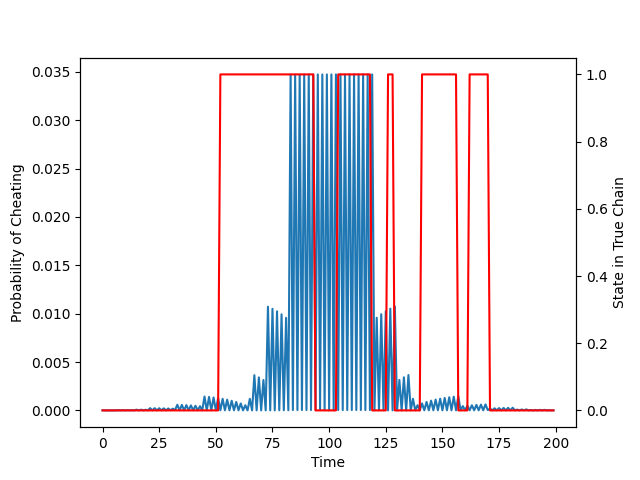
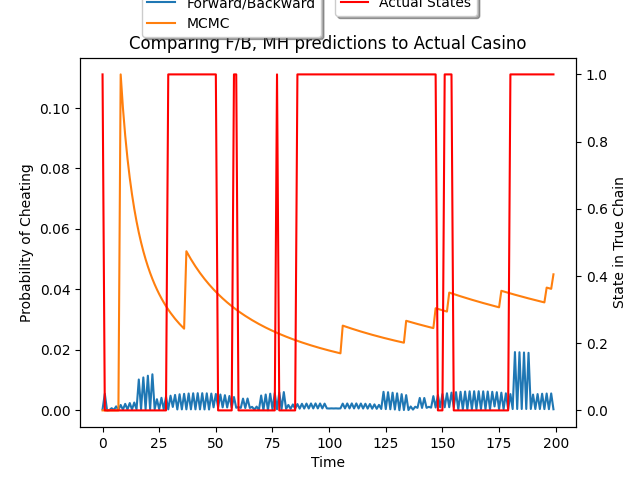
final attempt

diff --git a/HW9/Sample_Casino.py b/HW9/Sample_Casino.py
@@ -11,18 +11,19 @@ import click
 # For Y, YF and YC are for the outcomes of fair and cheating rolls
 
 class hidden_cas():
-    def __init__(self,a,YF,YC,T):
+    def __init__(self,a,YF,YC,T,b,n):
         # a is probability of changing casino state
         self.a = float(a)
-        print(YF)
-        print(YC)
         self.YF = stats.rv_discrete(name = "YF",values = ((1,2,3,4,5,6), YF))
         self.YC = stats.rv_discrete(name = "YC",values = ((1,2,3,4,5,6), YC))
         # Case 1 = Fair, 2 = Cheat
         self.cas_start = 0
+        self.burnin = b
+        self.n_iter = n
         self.T = T
         self.M = np.asmatrix([[1-self.a, self.a],[self.a, 1-self.a]])
         self.emission = np.asmatrix([YF,YC])
+        self.mcmc_state = self.mcmc()
         self.xc,self.yc = self.build_instances()
         self.alphaF, self.alphaC = self.forward()
         self.betaF,self.betaC = self.backward()
@@ -36,7 +37,6 @@ class hidden_cas():
         y0 = self.YF.rvs(1)-1
         yc = [y0]
         cstate = 0
-        print(self.a)
         for i in tqdm(range(self.T)):
             p = np.random.uniform(0,1)
             if p < self.a:
@@ -44,7 +44,6 @@ class hidden_cas():
                     cstate = 1
                 elif cstate == 1:
                     cstate = 0
-            print(cstate)
             xc.append(cstate)
             if cstate == 0:
                 yc.append(self.YF.rvs(1)-1)
@@ -63,10 +62,66 @@ class hidden_cas():
     def sample(self,t):
         return self.xc[t-1],self.yc[t-1]
     
+    def mcmc_flip(self,cstate):
+        cstate = 0
+        pstate = 0
+        if np.random.uniform(0,1) < self.a:
+            if cstate == 0:
+                pstate = 1
+            elif cstate == 1:
+                pstate == 0
+        else:
+            pstate = cstate
+        return pstate
+    
+    def prob_cheat(self,chain):
+        cc = chain.count(1)
+        return cc/len(chain)
+
+
+    
     def mcmc(self):
-        return
+        cstate = self.cas_start
+        mcmcstates = [0]
+        for i in tqdm(range(self.T)):
+            p = np.random.uniform(0,1)
+            if p < self.a:
+                if cstate == 0:
+                    cstate = 1
+                elif cstate == 1:
+                    cstate = 0
+            mcmcstates.append(cstate)
+        
+        for i in tqdm(range(self.burnin)):
+            mcstp = mcmcstates.copy()
+            for r in range(self.T):
+                mcstp[r-1] = self.mcmc_flip(mcmcstates[r-1])
+
+            mcstp[0] = 0
+            if self.prob_cheat(mcmcstates) == 0:
+                acceptance = 1
+            else:
+                acceptance = min(1,(self.prob_cheat(mcstp)/self.prob_cheat(mcmcstates)))
+
+            if np.random.uniform(0,1) < acceptance:
+                mcmcstates = mcstp
+
+        for i in tqdm(range(self.n_iter)):
+            mcstp = mcmcstates.copy()
+            for r in range(self.T):
+                mcstp[r-1] = self.mcmc_flip(mcmcstates[r-1])
+            
+            if self.prob_cheat(mcmcstates) == 0:
+                acceptance = 1
+            else:
+                acceptance = min(1,(self.prob_cheat(mcstp)/self.prob_cheat(mcmcstates)))
+
+            if np.random.uniform(0,1) < acceptance:
+                mcmcstates = mcstp
+        return mcmcstates
         
     def forward(self):
+        print(self.YF.pmf(self.yc[0]))
         alphaF = [self.YF.pmf(self.yc[0])]
         alphaC = [0]
         for i in tqdm(range(self.T)):
@@ -96,23 +151,25 @@ class hidden_cas():
         z = []
         yfb = []
         ya = []
+        ymcmc = []
         for i in tqdm(range(self.T)):
             z.append(i)
-            yfb.append(self.t_is_cheat(i))
+            yfb.append(self.t_is_cheat(i-1))
             ya.append(self.xc[i-1])
-            
-        
-        ymcmc = []
+            ymcmc.append(self.prob_cheat(self.mcmc_state[0:i+1]))
 
         fig, ax1 = plt.subplots()
         
         ax2 = ax1.twinx()
         ax1.plot(z,yfb,label = "Forward/Backward")
         ax2.plot(z,ya,'r-',label = "Actual States")
-        # ax1.plot(z,ymcmc,label = "MCMC")
+        ax1.plot(z,ymcmc,label = "MCMC")
         ax1.set_xlabel('Time')
         ax1.set_ylabel('Probability of Cheating')
         ax2.set_ylabel('State in True Chain')
+        ax1.legend(loc='upper right', bbox_to_anchor=(0.5, 1.20), fancybox=True, shadow=True)
+        ax2.legend(loc='upper left', bbox_to_anchor=(0.5, 1.20), fancybox=True, shadow=True)
+        ax1.set_title("Comparing F/B, MH predictions to Actual Casino")
         plt.savefig('hidden_casino.png')
 
 @click.command()
@@ -143,10 +200,27 @@ class hidden_cas():
     show_default=True,
     help='T number of observed rolls'
 )
+@click.option(
+    '--T',
+    default=200,
+    show_default=True,
+    help='T number of observed rolls'
+)
+@click.option(
+    '--b',
+    default=10000,
+    show_default=True,
+    help='Burn in iterations'
+)
+@click.option(
+    '--n',
+    default=200,
+    show_default=True,
+    help='MCMC iterations'
+)
 
-def main(a,yf,yc,t):
-    print(yf)
-    casino = hidden_cas(a,yf,yc,t)
+def main(a,yf,yc,t,b,n):
+    casino = hidden_cas(a,yf,yc,t,b,n)
     casino.plots()
 
 if __name__ == "__main__":
